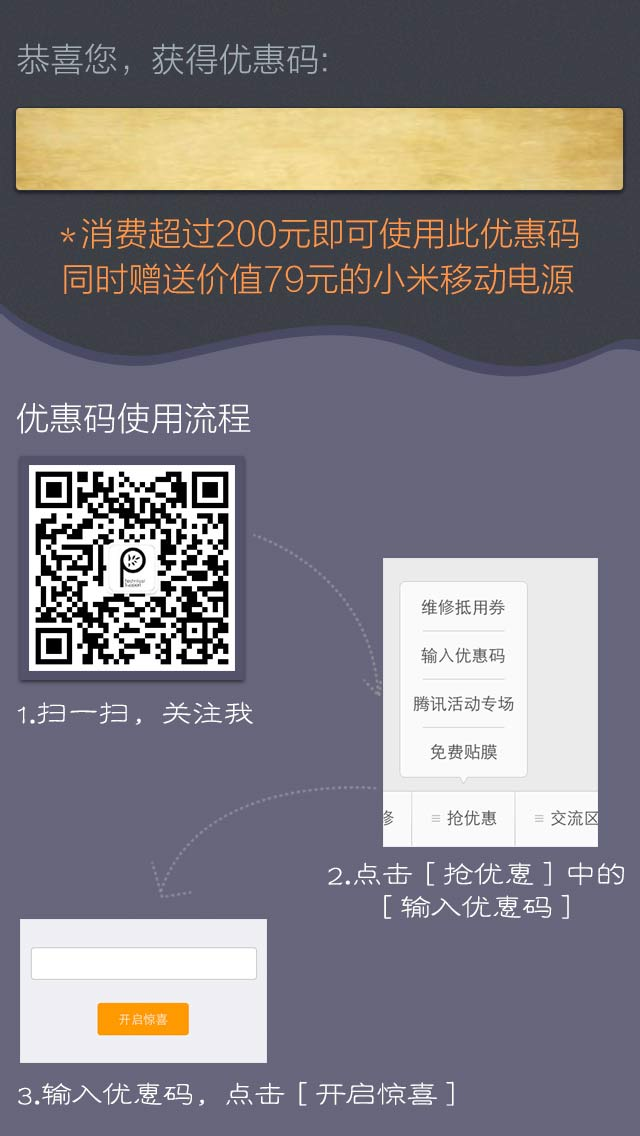
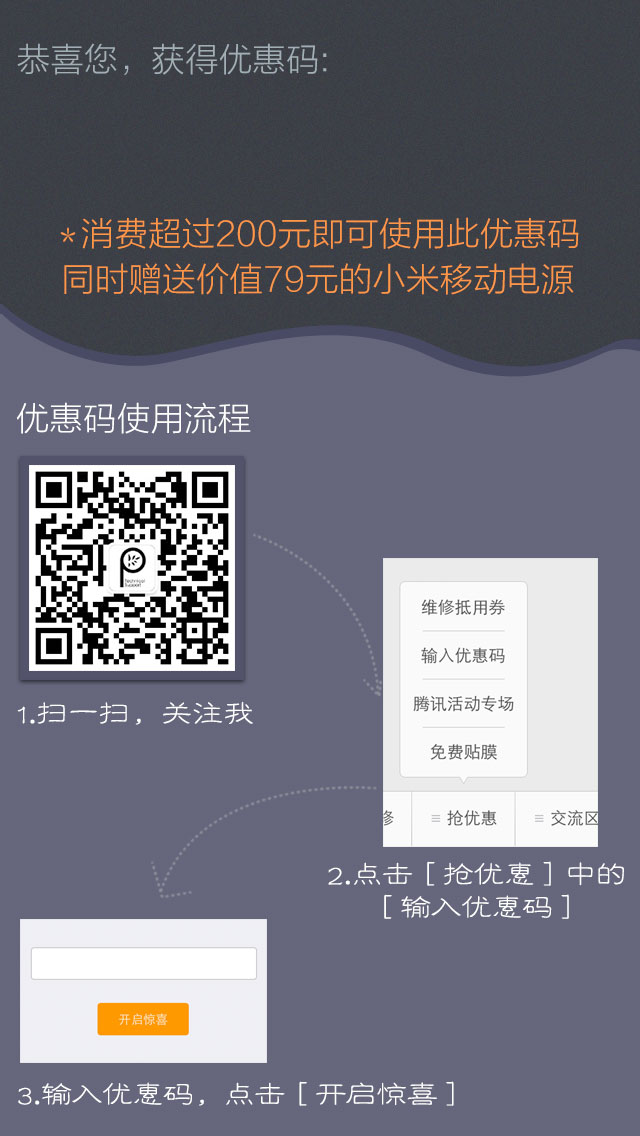
nd

Changed region(s): [[0.0, 0.0924, 1.0, 0.2773], [0.1875, 0.8935, 0.25, 0.9243]]

diff --git a/style.css b/style.css
@@ -139,14 +139,19 @@ input:-ms-input-placeholder { /* Internet Explorer 10+ */
     left: 50%;
     transform: translate(-50%,-50%);
    -webkit-transform: translate(-50%,-50%);    
+   background: url('res/tipsd.jpg') no-repeat top left;
+    background-size: 95vw 100%;
    text-align: center;
 }
 #codeMask{
     height: 7.4%;
-    width: 95%;
+    width: 95vw;
     position: absolute;
-    top: 9.4%;
-    right: 2.5%;
-    background-color: rgb(242,220,202);
+    top: 13.2%;
+    transform: translate(0,-50%);
+   -webkit-transform: translate(0,-50%);    
+    right:2.5%;
+    background: url('res/tipsd.jpg') no-repeat top left;
+    background-size: 95vw 100%;
     z-index: 1;
 }

diff --git a/index.html b/index.html
@@ -7,6 +7,7 @@
     <meta name="viewport" content="width=device-width,height=device-height,initial-scale=1.0, minimum-scale=1.0, maximum-scale=1.0, user-scalable=no">
     <link rel="stylesheet" href="style.css"></head>
 <body>
+    
     <img id="bg" src="res/index_bg.jpg">
     <img id="qc" src="res/index_qc.png">
     <div class="mask" style="display:none"></div>

diff --git a/app.js b/app.js
@@ -14,7 +14,10 @@
     }
     function showCode(str){
         $('#code').text(str);
-        $('#codeMask').animate({width:0},1000);
+        $('#codeMask').animate({
+            width:0,
+            backgroundPosition:'-95vw 100%'
+        },1000);
     }
     window.tipsHtmlInit=function(){
         showCode('KCf970Hdd1');

diff --git a/tips.html b/tips.html
@@ -10,7 +10,6 @@
     <img id="bg" src="res/tishi.jpg">
     
     <div id="code">
-        123
     </div>
     <div id="codeMask">     
     </div>
